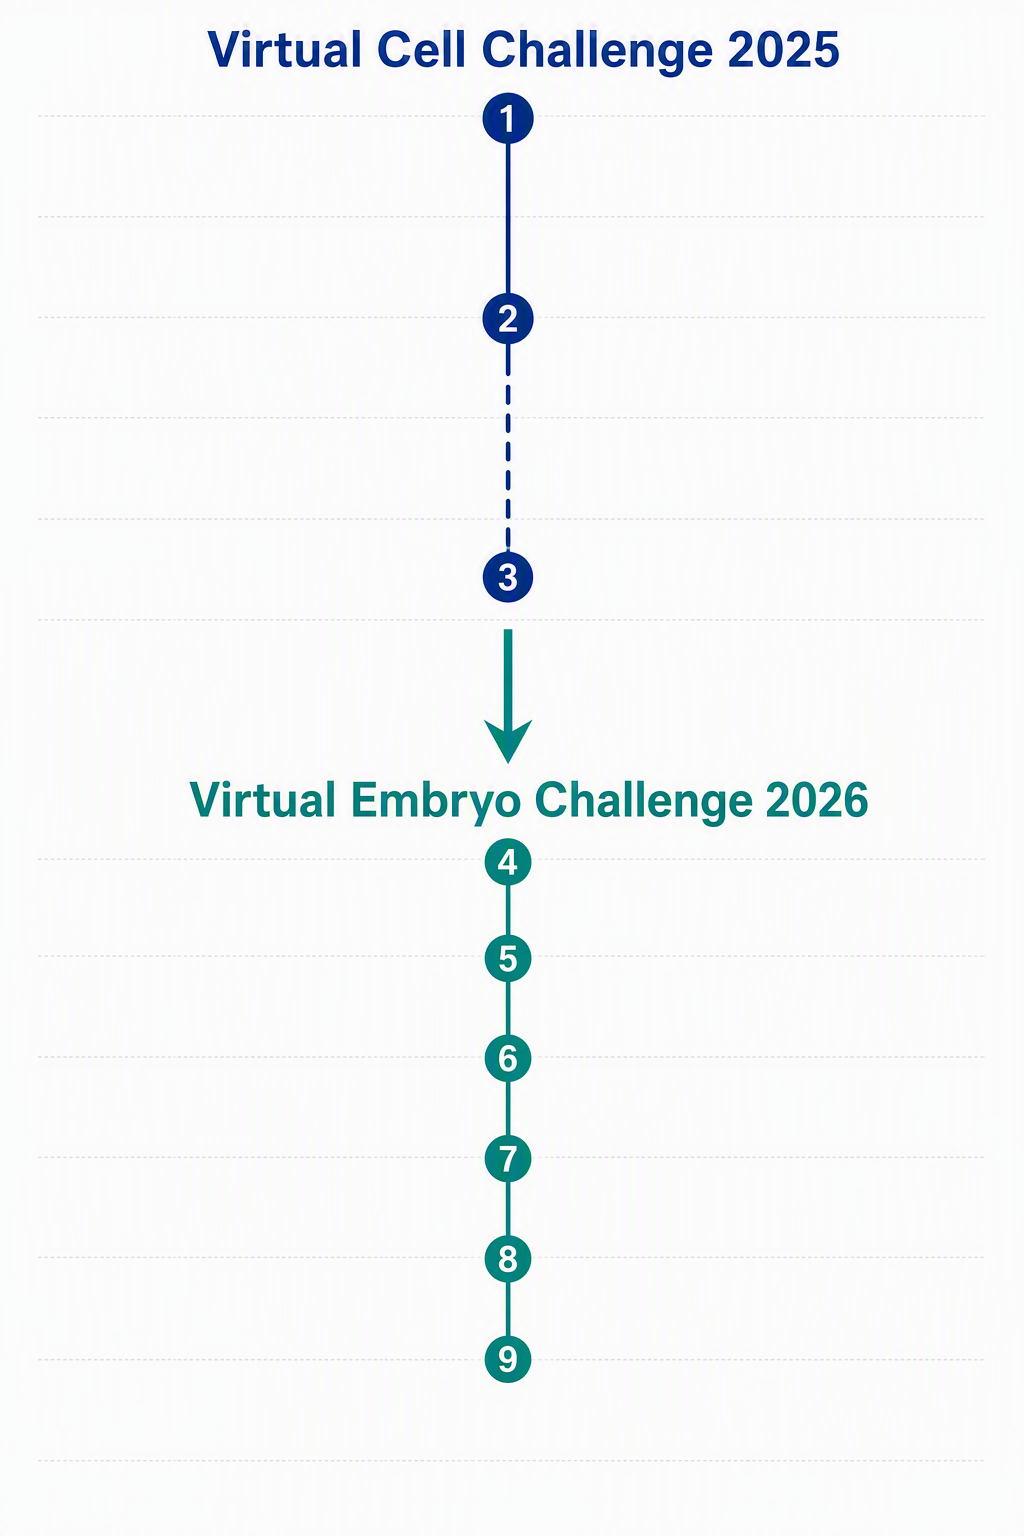
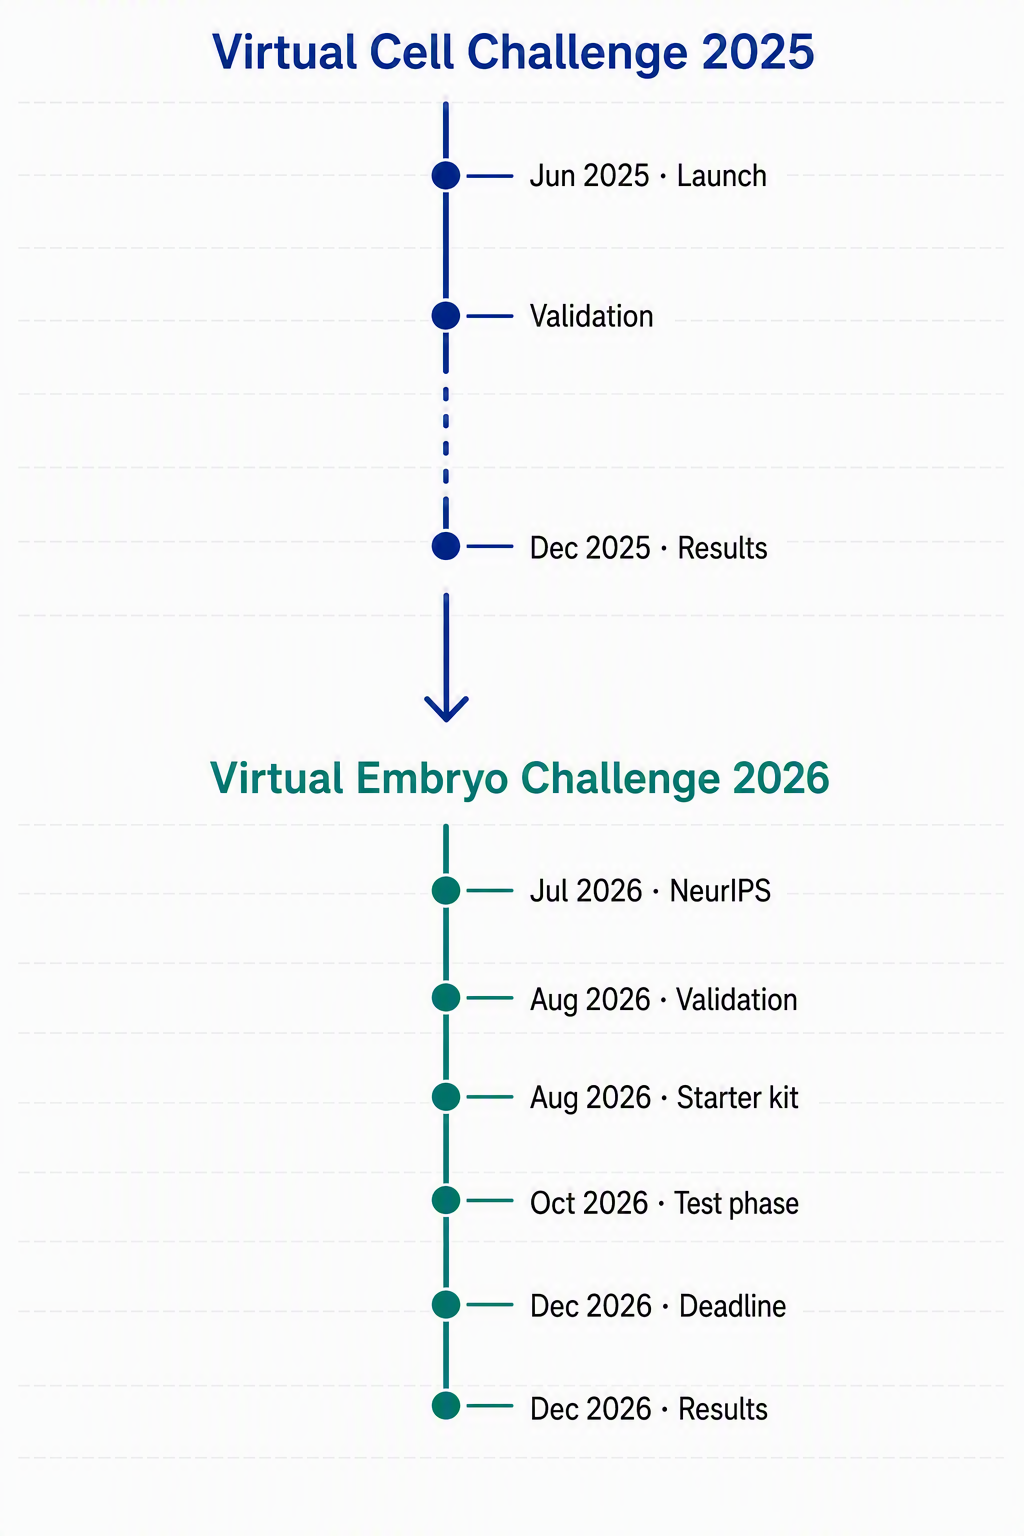
timeline figure with text labels, date table without numbers

diff --git a/source/_posts/从虚拟细胞到虚拟胚胎：两场挑战赛，一次升级.md b/source/_posts/从虚拟细胞到虚拟胚胎：两场挑战赛，一次升级.md
@@ -22,17 +22,19 @@ cover: /img/cover-virtual-embryo.png
 
 ![VCC 2025 与 VEC 2026 时间线对比](/img/vcc-vs-vec-timeline.png)
 
-| 编号 | 时间 | 事件 |
-| --- | --- | --- |
-| 1 | 2025-06-26 | VCC 启动，Cell 论文发布 |
-| 2 | 2025 年夏至秋 | VCC 验证阶段，提交只回分数 |
-| 3 | 2025-12-07 | VCC 结果公布 |
-| 4 | 2026-07-28 | NeurIPS 公布 VEC 入选 |
-| 5 | 2026-08-10 | VEC 验证榜开放 |
-| 6 | 2026-08-15 | VEC starter kit 发布 |
-| 7 | 2026-10-20 | VEC 测试阶段开始 |
-| 8 | 2026-12-02 | VEC 提交截止 |
-| 9 | 2026-12-11 | VEC 结果公布 |
+图上标签只有月份，精确日期看下面的表。
+
+| 时间 | 事件 |
+| --- | --- |
+| 2025-06-26 | VCC 启动，Cell 论文发布 |
+| 2025 年夏至秋 | VCC 验证阶段，提交只回分数 |
+| 2025-12-07 | VCC 结果公布 |
+| 2026-07-28 | NeurIPS 公布 VEC 入选 |
+| 2026-08-10 | VEC 验证榜开放 |
+| 2026-08-15 | VEC starter kit 发布 |
+| 2026-10-20 | VEC 测试阶段开始 |
+| 2026-12-02 | VEC 提交截止 |
+| 2026-12-11 | VEC 结果公布 |
 
 ## Virtual Cell Challenge：预测一个细胞的反应
 
